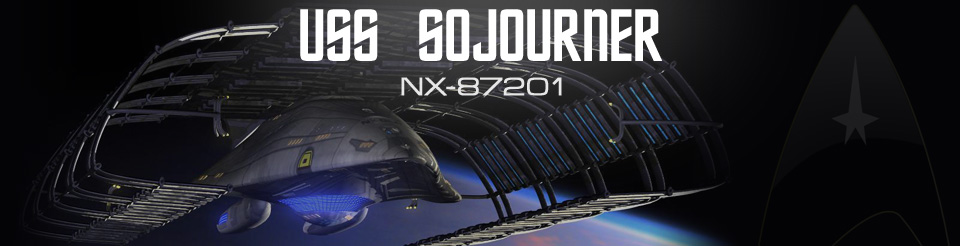
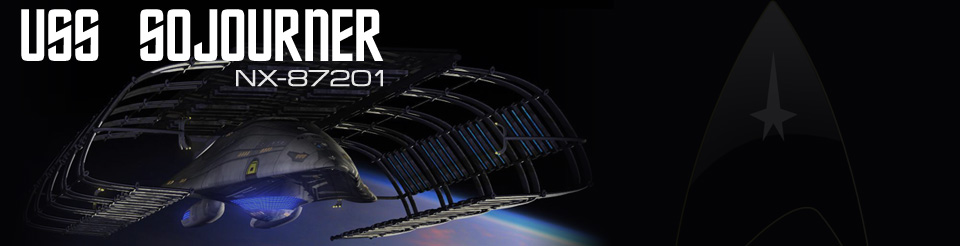
sojourner skin updates

diff --git a/skins/sojourner/style.css b/skins/sojourner/style.css
@@ -35,15 +35,13 @@ body {
 	padding: 0;
 	
 	background: #000;
-	color: #fff;
+	color: #ddd;
 	font-family: "Lucida Grande", "Lucida Sans Unicode", sans-serif;
-	font-size: 12px;
+	font-size: 13px;
 }
 
 .wrapper {
-	min-width: 960px;
-	max-width: 1280px;
-	padding: 0 45px;
+	width: 960px;
 	margin: 0 auto;
 }
 
@@ -57,11 +55,7 @@ body {
 */
 #container {}
 
-#header {
-	height: 246px;
-	
-	background: #040406 url('images/header.jpg') no-repeat top center;
-}
+#header {}
 
 /*
 |---------------------------------------------------------------
@@ -72,8 +66,8 @@ body {
 |
 */
 .mainNav {
-	height: 30px;
-	line-height: 30px;
+	height: 40px;
+	line-height: 40px;
 	width: auto;
 	
 	background: #f3b907 url('images/nav-bg.png') repeat-x 0 0;
@@ -111,8 +105,10 @@ body {
 	border-right: 1px solid #0e395c;
 	color: #eee;
 }
-
-.wrapper-center { margin: 0 auto; }
+#nav-main li.spacer {
+	height: 10px !important;
+	line-height: 1;
+}
 
 /*
 |---------------------------------------------------------------
@@ -133,10 +129,7 @@ body {
 | Styles that control the body of the system (where all the content is held)
 |
 */
-#container .content .body {
-	/* margin-right: 20%; */
-	padding: 1em 0 1em 1em;
-}
+#container .content .body { padding: 1em 0 1em 1em; }
 
 /*
 |---------------------------------------------------------------
@@ -182,21 +175,14 @@ body {
 	clear: both;
 	height: 25px;
 	line-height: 25px;
+	margin: 2em 0;
 	
-	background: #090909;
-	color: #fff;
-	border-top: 1px solid #111;
-	border-bottom: 1px solid #111;
+	color: #333;
 	text-align: center;
 	font-size: 80%;
 }
-
-.stardate {
-	float: right;
-	width: 150px;
-	
-	border: 1px solid;
-	
-	-moz-border-radius: 5px;
-	-webkit-border-radius: 5px;
+#container .footer a {
+	color: #555;
+	border-bottom: 1px solid;
 }
+#container .footer a:hover { border-bottom: 1px transparent; }

diff --git a/skins/sojourner/style-misc.css b/skins/sojourner/style-misc.css
@@ -311,3 +311,5 @@ ul.version { list-style-type: square; }
 */
 /** this padding is used on the mission summaries page **/
 .specialPadding1 { padding: 1em 0 1em 1em; }
+
+.float-right { float: right; }

diff --git a/skins/sojourner/menu.php b/skins/sojourner/menu.php
@@ -51,14 +51,12 @@ $bodywidth = (CUR_PAGE == 'admin.php') ? '20%' : '0%';
 	$(document).ready(function(){
 		$('#nav-main').clickMenu();
 		$('ul.hidemenu').show();
-		
-		$('.wrapper-center').css('width', <?php echo $navwidth;?>);
-		$('#container .content .body').css('margin-right', '<?php echo $bodywidth;?>');
 	});
 </script>
 
 <?php
 
+include_once(SKIN_PATH . 'functions.php');
 include_once(SKIN_PATH . 'classMenuOverride.php');
 
 /* create a new instance of the menu class */
@@ -71,17 +69,16 @@ if(isset($sessionCrewid))
 
 ?>
 
-<div id="header"></div>
-
-<div id="subhead"></div>
-
-<div class="mainNav">
-	<div class="wrapper">
-		<div class="wrapper-center">
+<div id="header">
+	<div class="mainNav">
+		<div class="wrapper">
+			<div class="float-right"><img src="<?php echo SKIN_PATH;?>images/sojourner.png" alt="" /></div>
 			<?php $menu->main();?>
 		</div>
 	</div>
 </div>
+
+<div id="subhead"></div>
 
 <div id="container" class="wrapper">
 	<div class="content">

diff --git a/skins/sojourner/header.php b/skins/sojourner/header.php
@@ -35,5 +35,6 @@ define('CUR_PAGE', end($name));
 		<script type="text/javascript">
 			<?php include_once('framework/functionsJavascript.js');?>
 		</script>
+		<script type="text/javascript" src="<?php echo SKIN_PATH;?>assets/jquery.valign.js"></script>
 	</head>
 	<body>
